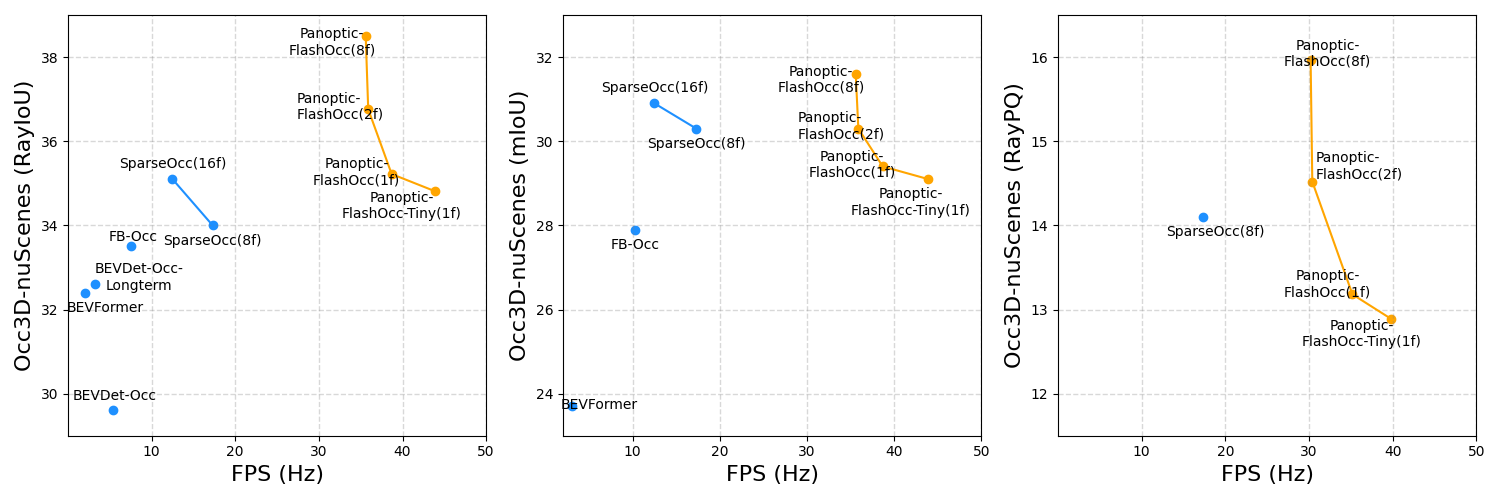
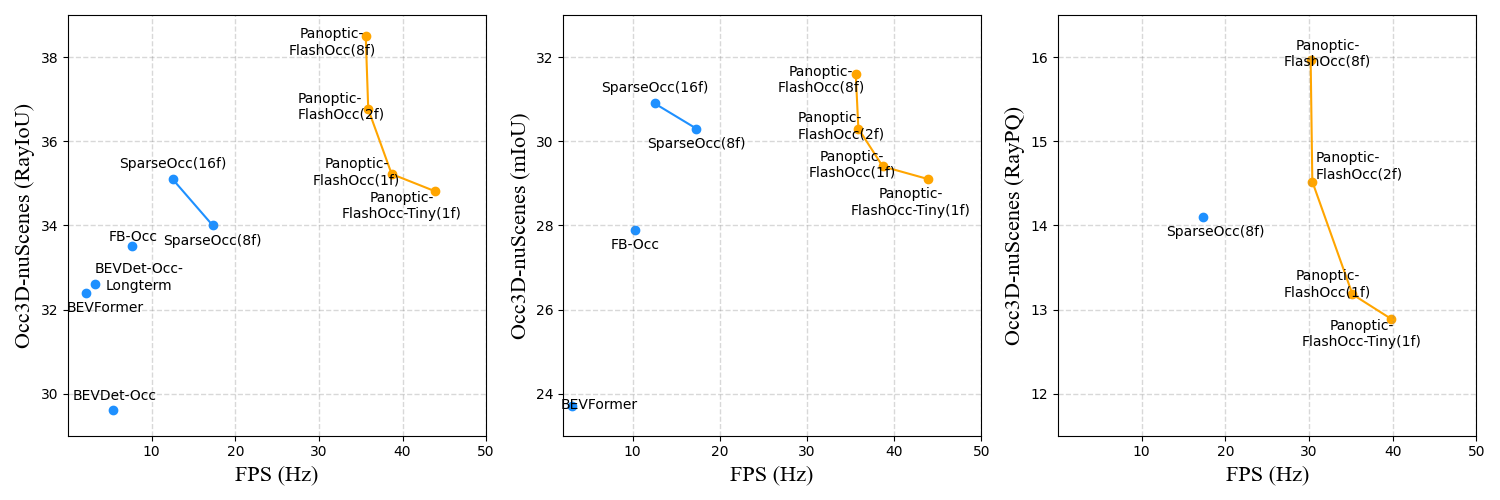
update

diff --git a/README.md b/README.md
@@ -30,12 +30,12 @@ This repository is an official implementation of [FlashOCC](https://arxiv.org/ab
 and [Panoptic-FlashOCC]()
 
 <div align="center">
-  <img src="figs/panoptic_flashOcc.png"/>
+  <img src="figs/panoptic_flashOcc.jpg"/>
 </div><br/>
 
 
 ## Main Results
-### 1. FlashOCCV1
+### 1. FlashOCC
 |                                               Config                                                | Backbone | Input <br/>Size |  mIoU   |            FPS<br/>(Hz)            |                                             Flops<br/>(G)                                             |                                           Params<br/>(M)                                           |                                Model                                |                                              Log                                               |
 |:---------------------------------------------------------------------------------------------------|:--------:|:----------:|:-------:|:-----------------------------:|:------------------------------------------------------------------------------------------------:|:---------------------------------------------------------------------------------------------:|:-------------------------------------------------------------------:|:----------------------------------------------------------------------------------------------:|
 |                 [**BEVDetOCC (1f)**](projects/configs/bevdet_occ/bevdet-occ-r50.py)                 |   R50    |  256x704   |  31.60  |             92.1              |  [241.76](doc/mmdeploy_test.md)   |  [29.02](doc/mmdeploy_test.md)  |                                            [gdrive]()                                            |                                            [log]()                                            |
@@ -61,13 +61,13 @@ FPS are tested via TensorRT on 3090 with FP16 precision. Please refer to Tab.2 i
 |:--------------------------------------------------------------------------------|:--------:|:-----------:|:-------:|:------:|:------:|:------------:|:------------------------------:|:-----------------------------:|:-----------------------------------------------------------------------------------------------:|:--------------------------------------------------------------------------------------------:|
 |          [**M1: FlashOCC (1f)**](projects/configs/flashocc/flashocc-r50.py)          |   R50    |   256x704   |    -    | - | 15.41  |     -     | [248.57](doc/mmdeploy_test.md) | [44.74](doc/mmdeploy_test.md) |                                           [gdrive](https://drive.google.com/file/d/14XsvjSwp-vLpy_eBZzvKo3MAh-YWRHcu/view?usp=drive_link)                                            |                                           [log](https://drive.google.com/file/d/1cTDoauEmjhK9fReLDcA2zPZx4a6X3U1-/view?usp=drive_link)                                            |
 | [**Panoptic-FlashOCC-Depth-tiny (1f)**](projects/configs/panoptic-flashocc/panoptic-flashocc-r50-depth-tiny.py) |   R50    |   256x704   |  34.57  | - | 28.83  |     43.9     | [175.00](doc/mmdeploy_test.md) | [45.32](doc/mmdeploy_test.md) | [gdrive](https://drive.google.com/file/d/1dqC1UDuVhzs3XWb292j8zWwfc-7pL8oT/view?usp=sharing) | [log](https://drive.google.com/file/d/17z72iyAmR9fE7-O-R_o3Uy07jg83uxCn/view?usp=sharing) |
-| [**Panoptic-FlashOCC-Depth-tiny-Pano (1f)**](projects/configs/panoptic-flashocc/panoptic-flashocc-r50-depth-tiny-pano.py) |   R50    |   256x704   |  34.81  | - | 29.14  |     39.8     | [175.00](doc/mmdeploy_test.md) | [45.32](doc/mmdeploy_test.md) | [gdrive](https://drive.google.com/file/d/1dqC1UDuVhzs3XWb292j8zWwfc-7pL8oT/view?usp=sharing) | [log](https://drive.google.com/file/d/17z72iyAmR9fE7-O-R_o3Uy07jg83uxCn/view?usp=sharing) |
+| [**Panoptic-FlashOCC-Depth-tiny-Pano (1f)**](projects/configs/panoptic-flashocc/panoptic-flashocc-r50-depth-tiny-pano.py) |   R50    |   256x704   |  34.81  | 12.9 | 29.14  |     39.8     | [175.00](doc/mmdeploy_test.md) | [45.32](doc/mmdeploy_test.md) | [gdrive](https://drive.google.com/file/d/1dqC1UDuVhzs3XWb292j8zWwfc-7pL8oT/view?usp=sharing) | [log](https://drive.google.com/file/d/17z72iyAmR9fE7-O-R_o3Uy07jg83uxCn/view?usp=sharing) |
 | [**Panoptic-FlashOCC-Depth (1f)**](projects/configs/panoptic-flashocc/panoptic-flashocc-r50-depth.py) |   R50    |   256x704   |  34.93  | - |  28.91 |     38.7     | [269.47](doc/mmdeploy_test.md) | [50.12](doc/mmdeploy_test.md) | [gdrive](https://drive.google.com/drive/folders/156PrWrBzfZGiNE0INfKwQ4nUcP9Vo8lM?usp=sharing) | [log](https://drive.google.com/drive/folders/156PrWrBzfZGiNE0INfKwQ4nUcP9Vo8lM?usp=sharing) |
-| [**Panoptic-FlashOCC-Depth-Pano (1f)**](projects/configs/panoptic-flashocc/panoptic-flashocc-r50-depth-pano.py) |   R50    |   256x704   |  35.22  | 12.91 |  29.39 |     35.2     | [269.47](doc/mmdeploy_test.md) | [50.12](doc/mmdeploy_test.md) | [gdrive](https://drive.google.com/drive/folders/156PrWrBzfZGiNE0INfKwQ4nUcP9Vo8lM?usp=sharing) | [log](https://drive.google.com/drive/folders/156PrWrBzfZGiNE0INfKwQ4nUcP9Vo8lM?usp=sharing) |
+| [**Panoptic-FlashOCC-Depth-Pano (1f)**](projects/configs/panoptic-flashocc/panoptic-flashocc-r50-depth-pano.py) |   R50    |   256x704   |  35.22  | 13.2 |  29.39 |     35.2     | [269.47](doc/mmdeploy_test.md) | [50.12](doc/mmdeploy_test.md) | [gdrive](https://drive.google.com/drive/folders/156PrWrBzfZGiNE0INfKwQ4nUcP9Vo8lM?usp=sharing) | [log](https://drive.google.com/drive/folders/156PrWrBzfZGiNE0INfKwQ4nUcP9Vo8lM?usp=sharing) |
 | [**Panoptic-FlashOCC-4D-Depth (2f)**](projects/configs/panoptic-flashocc/panoptic-flashocc-r50-depth4d.py) |   R50    |   256x704   |  35.99  | - |  29.57 |     35.9     |               -                |               -               | [gdrive](https://drive.google.com/drive/folders/1YOcayapmJNYH7yuiOUOML6rGInCQPMJU?usp=sharing) | [log](https://drive.google.com/drive/folders/1YOcayapmJNYH7yuiOUOML6rGInCQPMJU?usp=sharing) |
-| [**Panoptic-FlashOCC-4D-Depth-Pano (2f)**](projects/configs/panoptic-flashocc/panoptic-flashocc-r50-depth4d-pano.py) |   R50    |   256x704   |  36.76  | 14.21 |  30.31 |     30.4     |               -                |               -               | [gdrive](https://drive.google.com/drive/folders/1YOcayapmJNYH7yuiOUOML6rGInCQPMJU?usp=sharing) | [log](https://drive.google.com/drive/folders/1YOcayapmJNYH7yuiOUOML6rGInCQPMJU?usp=sharing) |
+| [**Panoptic-FlashOCC-4D-Depth-Pano (2f)**](projects/configs/panoptic-flashocc/panoptic-flashocc-r50-depth4d-pano.py) |   R50    |   256x704   |  36.76  | 14.5 |  30.31 |     30.4     |               -                |               -               | [gdrive](https://drive.google.com/drive/folders/1YOcayapmJNYH7yuiOUOML6rGInCQPMJU?usp=sharing) | [log](https://drive.google.com/drive/folders/1YOcayapmJNYH7yuiOUOML6rGInCQPMJU?usp=sharing) |
 | [**Panoptic-FlashOCC-4DLongterm-Depth (8f)**](projects/configs/panoptic-flashocc/panoptic-flashocc-r50-depth4d-longterm8f.py) |   R50    |   256x704   |  38.51  | - |  31.49 |     35.6     |               -                |               -               | [gdrive](https://drive.google.com/drive/folders/1ns6f07jNb9WwB1ScJm3tIWdBsU-rh0eS?usp=sharing) | [log](https://drive.google.com/drive/folders/1ns6f07jNb9WwB1ScJm3tIWdBsU-rh0eS?usp=sharing) |
-| [**Panoptic-FlashOCC-4DLongterm-Depth-Pano (8f)**](projects/configs/panoptic-flashocc/panoptic-flashocc-r50-depth4d-longterm8f.py) |   R50    |   256x704   |  38.50  | 15.78 | 31.57 |     30.2     |               -                |               -               | [gdrive](https://drive.google.com/drive/folders/1ns6f07jNb9WwB1ScJm3tIWdBsU-rh0eS?usp=sharing) | [log](https://drive.google.com/drive/folders/1ns6f07jNb9WwB1ScJm3tIWdBsU-rh0eS?usp=sharing) |
+| [**Panoptic-FlashOCC-4DLongterm-Depth-Pano (8f)**](projects/configs/panoptic-flashocc/panoptic-flashocc-r50-depth4d-longterm8f.py) |   R50    |   256x704   |  38.50  | 16.0 | 31.57 |     30.2     |               -                |               -               | [gdrive](https://drive.google.com/drive/folders/1ns6f07jNb9WwB1ScJm3tIWdBsU-rh0eS?usp=sharing) | [log](https://drive.google.com/drive/folders/1ns6f07jNb9WwB1ScJm3tIWdBsU-rh0eS?usp=sharing) |
 
 * Please note that the FPS here is measured with A100 GPU (PyTorch fp32 backend).
 
